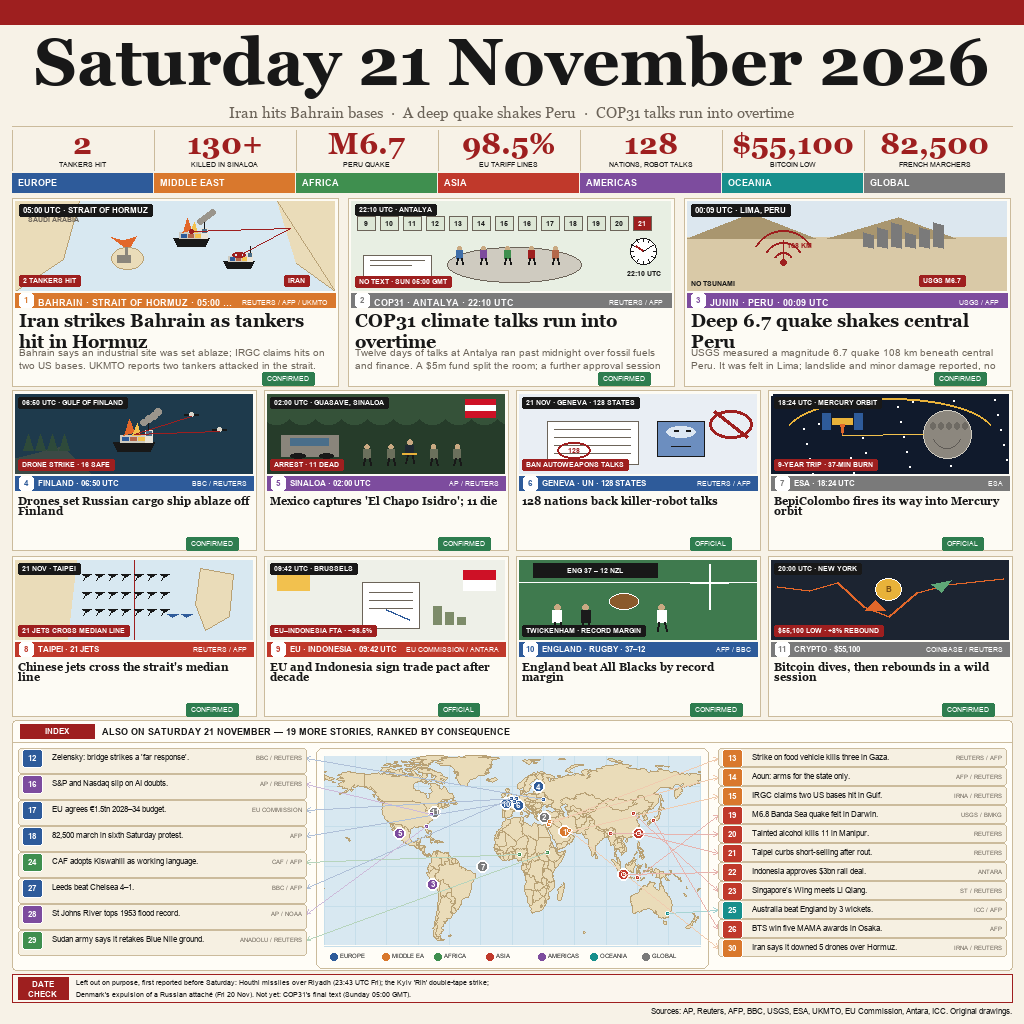
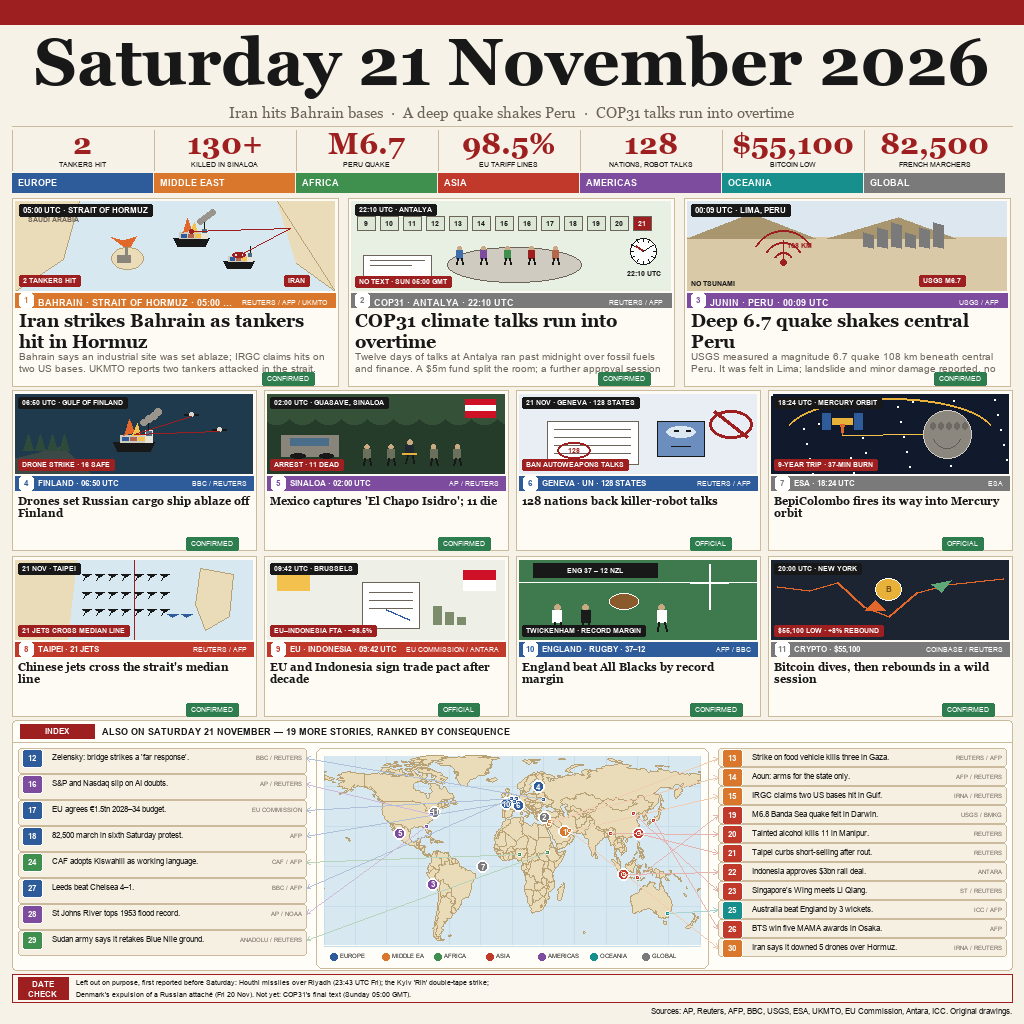
Fix cramped card text: separate main headline/body and small headline lines

diff --git a/render.py b/render.py
@@ -517,7 +517,7 @@ def draw_main_cards(im, d):
             txt(d, (x + 7, 310 + j * 21), fit(d, ln, F["mh"], 312), F["mh"], rgb(INK))
         bl = wrap(d, s["body"], F["mb"], 312)[:2]
         for j, ln in enumerate(bl):
-            txt(d, (x + 7, 346 + j * 13), fit(d, ln, F["mb"], 312), F["mb"], rgb(MUTED))
+            txt(d, (x + 7, 350 + j * 12), fit(d, ln, F["mb"], 312), F["mb"], rgb(MUTED))
         chip(d, x + 250, 372, s["status"])
 
 
@@ -536,7 +536,7 @@ def draw_small_cards(im, d):
         txt(d, (x + 235, y + 93), s["source"], F["ss"], "#FFFFFF", "rm")
         hl = wrap(d, s["headline"], F["sh"], 232)[:2]
         for j, ln in enumerate(hl):
-            txt(d, (x + 6, y + 104 + j * 10), fit(d, ln, F["sh"], 232), F["sh"], rgb(INK))
+            txt(d, (x + 6, y + 104 + j * 12), fit(d, ln, F["sh"], 232), F["sh"], rgb(INK))
         chip(d, x + 174, y + 147, s["status"])
 
 
